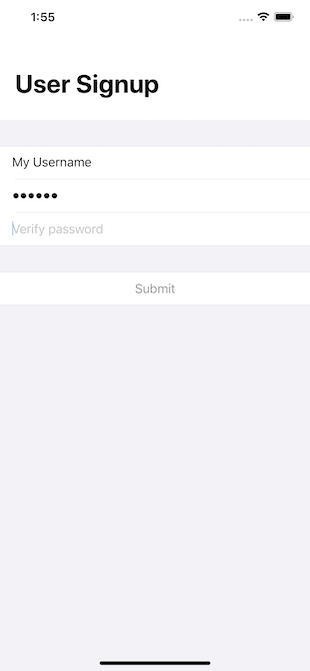
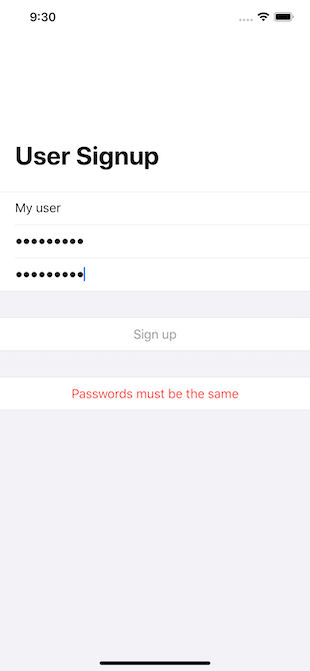
Add message for validation errors

diff --git a/SignInSwiftUI/SignupView.swift b/SignInSwiftUI/SignupView.swift
@@ -15,20 +15,46 @@ fileprivate final class UserInfo : ObservableObject {
     @Published var password = ""
     @Published var verifyPassword = ""
     @Published var infoValid = false
+    @Published var errorMessage = ""
     
     private var cancellableSet: Set<AnyCancellable> = []
     
     
     private func nameIsValid() -> Bool {
-        return name.count > 5
+        var isValid = true
+        self.errorMessage = ""
+
+        if self.name.count < 6 {
+            isValid = false
+            if self.name.count > 2 {
+                self.errorMessage = "User name must have at least five characters"
+            }
+        }
+        return isValid
     }
 
     private func passwordIsValid() -> Bool {
-        return password.count > 5
+        var isValid = true
+        self.errorMessage = ""
+
+        if self.password.count < 6 {
+            isValid = false
+            if self.password.count > 2 {
+                self.errorMessage = "Password must have at least six characters"
+            }
+        }
+        return isValid
     }
 
     private func passwordsAreTheSame() -> Bool {
-        return password == verifyPassword
+        if password == verifyPassword {
+            return true
+        } else {
+            if self.verifyPassword.count > 5 {
+                self.errorMessage = "Passwords must be the same"
+            }
+            return false
+        }
     }
 
     private func infoIsValid() -> Bool {
@@ -36,6 +62,7 @@ fileprivate final class UserInfo : ObservableObject {
     }
 
     private var validatedUserInfo: AnyPublisher<Bool, Never> {
+        self.errorMessage = ""
         // do validation whenever any of the three fields change
         return Publishers.CombineLatest3($name, $password, $verifyPassword)
                 .receive(on: RunLoop.main)
@@ -59,7 +86,7 @@ fileprivate final class UserInfo : ObservableObject {
             .map { $0 }
             .receive(on: RunLoop.main)
             .assign(to: \.infoValid, on: self)
-            .store(in: &cancellableSet)     // save a reference so we don't get garbage collected
+            .store(in: &cancellableSet)     // save a reference so we don't get garbage collected until we're done
     }
 }
 
@@ -80,10 +107,16 @@ struct SignupView: View {
                         Button(action: {
                             self.submit()
                             }) {
-                            Text("Signup")
+                            Text("Sign up")
                         }.disabled(!userInfo.infoValid)
                         Spacer()
                     }
+                }
+                HStack {
+                    Spacer()
+                    Text(userInfo.errorMessage)
+                        .foregroundColor(.red)
+                    Spacer()
                 }
             }
             .padding(.top, 20)

diff --git a/SignInSwiftUI/LandingView.swift b/SignInSwiftUI/LandingView.swift
@@ -1,0 +1,39 @@
+//
+//  LandingView.swift
+//  SignInSwiftUI
+//
+//  Created by Gary on 2/5/20.
+//  Copyright © 2020 Gary Hanson. All rights reserved.
+//
+
+import SwiftUI
+
+
+struct LandingView: View {
+    var body: some View {
+        NavigationView {
+            ZStack {
+                Image("Clouds")
+                Text("We have a great product. Please be a dear and sign up.")
+                    .font(.title)
+                    .foregroundColor(.white)
+                    .frame(width: 360)
+                    .offset(y: -140)
+                NavigationLink(destination: SignupView()) {
+                    Text("Sign up")
+                    .frame(width: 160, height: 40)
+                    .font(.title)
+                    .foregroundColor(.white)
+                    .background(Capsule().stroke(lineWidth: 2).fill(Color.white))
+                }
+                .offset(y: -40)
+            }
+        }
+    }
+}
+
+struct LandingView_Previews: PreviewProvider {
+    static var previews: some View {
+        LandingView()
+    }
+}

diff --git a/SignInSwiftUI/SceneDelegate.swift b/SignInSwiftUI/SceneDelegate.swift
@@ -20,12 +20,12 @@ class SceneDelegate: UIResponder, UIWindowSceneDelegate {
         // This delegate does not imply the connecting scene or session are new (see `application:configurationForConnectingSceneSession` instead).
 
         // Create the SwiftUI view that provides the window contents.
-        let contentView = ContentView()
+        let landingView = LandingView()
 
         // Use a UIHostingController as window root view controller.
         if let windowScene = scene as? UIWindowScene {
             let window = UIWindow(windowScene: windowScene)
-            window.rootViewController = UIHostingController(rootView: contentView)
+            window.rootViewController = UIHostingController(rootView: landingView)
             self.window = window
             window.makeKeyAndVisible()
         }
